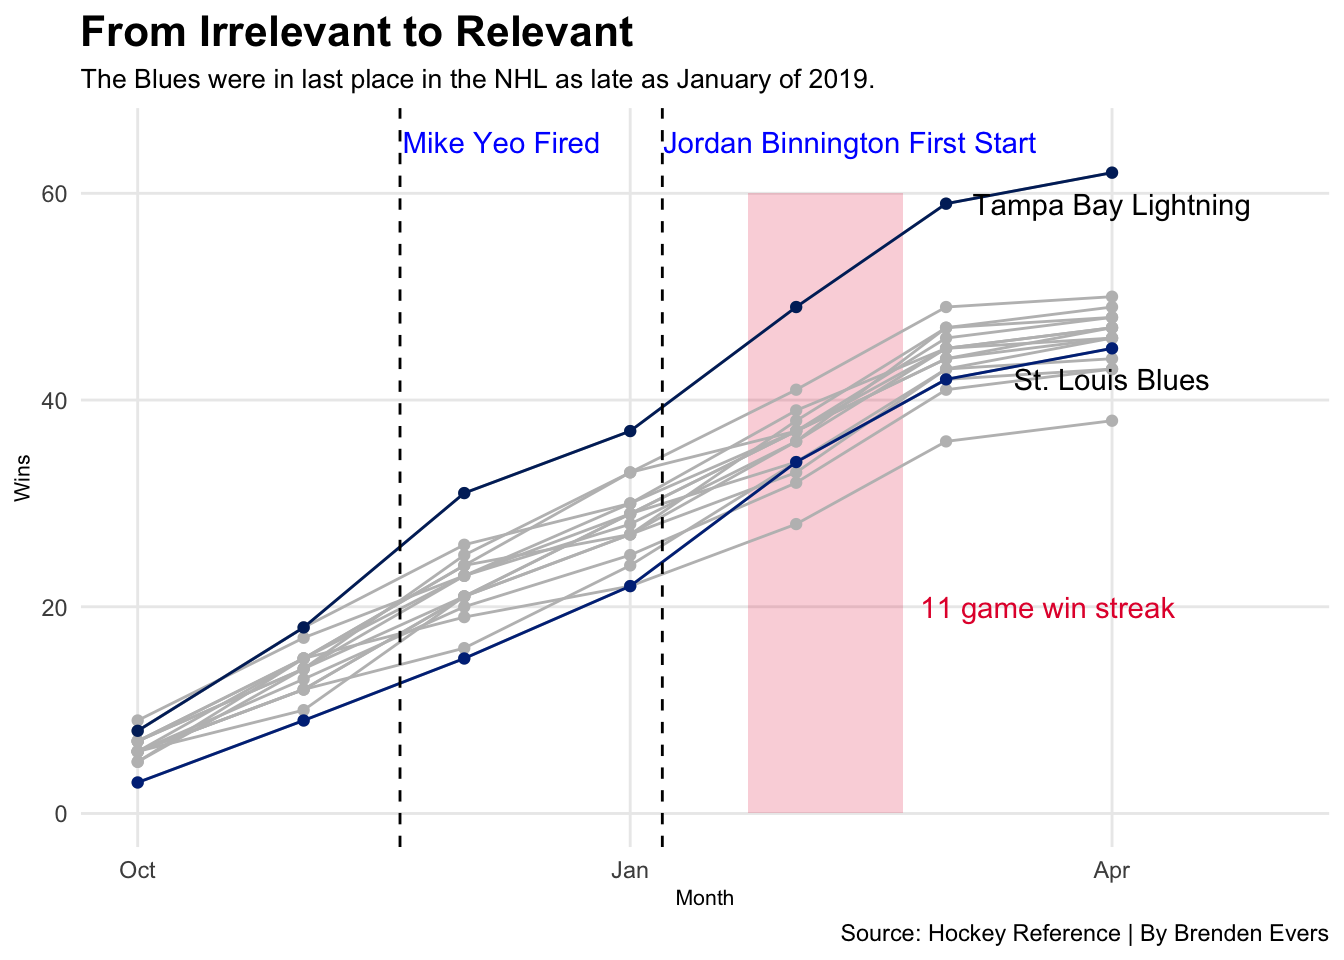
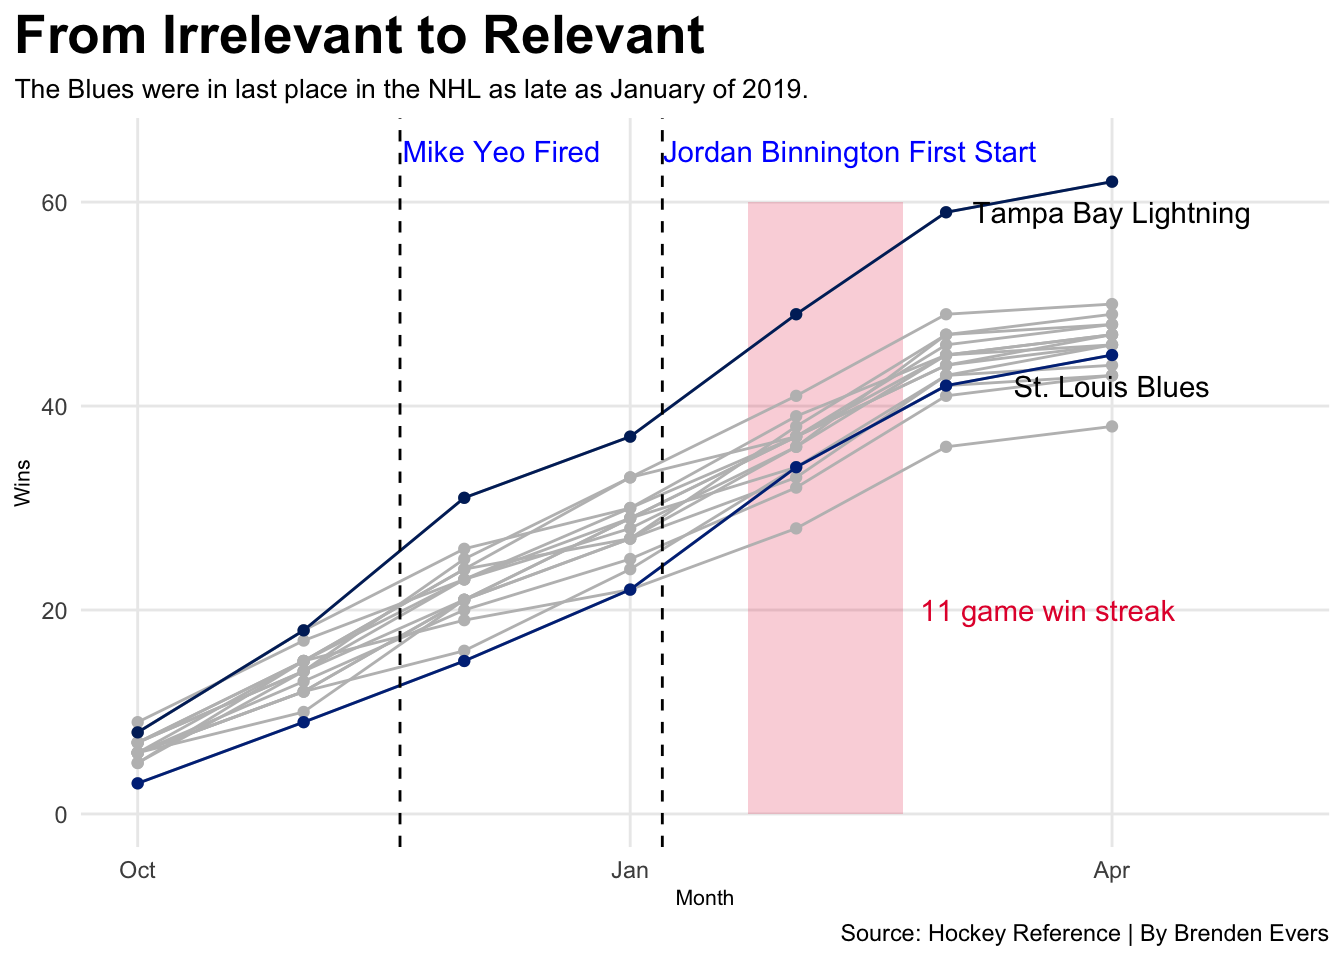
Added more content

Changed region(s): [[0.0, 0.0, 0.9688, 0.8125], [0.6875, 0.625, 0.9688, 0.6562], [0.0, 0.4688, 0.0312, 0.5312]]

diff --git a/index.html b/index.html
@@ -156,7 +156,7 @@ ul.task-list li input[type="checkbox"] {
 <!-- margin-sidebar -->
     <div id="quarto-margin-sidebar" class="sidebar margin-sidebar">
         
-    <h5 class="quarto-listing-category-title">Categories</h5><div class="quarto-listing-category category-default"><div class="category" data-category="">All <span class="quarto-category-count">(4)</span></div><div class="category" data-category="code">code <span class="quarto-category-count">(1)</span></div><div class="category" data-category="data">data <span class="quarto-category-count">(1)</span></div><div class="category" data-category="sports">sports <span class="quarto-category-count">(1)</span></div></div></div>
+    <h5 class="quarto-listing-category-title">Categories</h5><div class="quarto-listing-category category-default"><div class="category" data-category="">All <span class="quarto-category-count">(5)</span></div><div class="category" data-category="code">code <span class="quarto-category-count">(1)</span></div><div class="category" data-category="data">data <span class="quarto-category-count">(1)</span></div><div class="category" data-category="sports">sports <span class="quarto-category-count">(1)</span></div></div></div>
 <!-- main -->
 <main class="content quarto-banner-title-block column-page-left" id="quarto-document-content">
 
@@ -171,7 +171,7 @@ ul.task-list li input[type="checkbox"] {
 <div class="list quarto-listing-default">
 <div class="quarto-post image-right" data-index="0" data-listing-file-modified-sort="1699458168212" data-listing-reading-time-sort="0">
 <div class="thumbnail">
-<p><a href="./posts/the-chicago-cubs-have-problems-developing-pitching/index.html"> <div class="listing-item-img-placeholder card-img-top" >&nbsp;</div> </a></p>
+<p><a href="./posts/the-chicago-cubs-have-problems-developing-pitching/index.html"> <!-- img(9CEB782EFEE6)[progressive=false, height=]:posts/the-chicago-cubs-have-problems-developing-pitching/index.html --> </a></p>
 </div>
 <div class="body">
 <a href="./posts/the-chicago-cubs-have-problems-developing-pitching/index.html">
@@ -181,7 +181,7 @@ ul.task-list li input[type="checkbox"] {
 
 </div>
 <div class="listing-description">
-
+<!-- desc(5A0113B34292)[max=175]:posts/the-chicago-cubs-have-problems-developing-pitching/index.html -->
 </div>
 </a>
 </div>
@@ -189,7 +189,7 @@ ul.task-list li input[type="checkbox"] {
 <a href="./posts/the-chicago-cubs-have-problems-developing-pitching/index.html"> </a>
 </div>
 </div>
-<div class="quarto-post image-right" data-index="1" data-categories="" data-listing-date-sort="1701324000000" data-listing-file-modified-sort="1701445224205" data-listing-date-modified-sort="NaN" data-listing-reading-time-sort="7">
+<div class="quarto-post image-right" data-index="1" data-categories="" data-listing-date-sort="1701324000000" data-listing-file-modified-sort="1701445772370" data-listing-date-modified-sort="NaN" data-listing-reading-time-sort="7">
 <div class="thumbnail">
 <p><a href="./posts/how-the-st-louis-blues-turned-their-season-around-in-2019/index.html"> <img src="./posts/how-the-st-louis-blues-turned-their-season-around-in-2019/image.png" class="thumbnail-image"> </a></p>
 </div>
@@ -207,7 +207,7 @@ The Improbable Turnaround of the 2019 St.&nbsp;Louis Blues
 </div>
 <a href="./posts/how-the-st-louis-blues-turned-their-season-around-in-2019/index.html">
 <div class="listing-description">
-On Jan.&nbsp;3, 2019 The St Louis Blues found themselves in last place in the NHL and were consistently losing games by a wide margin. Fans were beginning to check out. Tickets…
+<!-- desc(5A0113B34292)[max=175]:posts/how-the-st-louis-blues-turned-their-season-around-in-2019/index.html -->
 </div>
 </a>
 </div>
@@ -222,7 +222,40 @@ Brenden Evers
 </a>
 </div>
 </div>
-<div class="quarto-post image-right" data-index="2" data-categories="" data-listing-date-sort="1699596000000" data-listing-file-modified-sort="1701413809466" data-listing-date-modified-sort="NaN" data-listing-reading-time-sort="9">
+<div class="quarto-post image-right" data-index="2" data-categories="" data-listing-date-sort="1701324000000" data-listing-file-modified-sort="1701445773884" data-listing-date-modified-sort="NaN" data-listing-reading-time-sort="7">
+<div class="thumbnail">
+<p><a href="./posts/how-the-st-louis-blues-turned-their-season-around-in-2019/index.html"> <img src="./posts/how-the-st-louis-blues-turned-their-season-around-in-2019/image.png" class="thumbnail-image"> </a></p>
+</div>
+<div class="body">
+<a href="./posts/how-the-st-louis-blues-turned-their-season-around-in-2019/index.html">
+<h3 class="no-anchor listing-title">
+The Improbable Turnaround of the 2019 St.&nbsp;Louis Blues
+</h3>
+<div class="listing-subtitle">
+
+</div>
+</a>
+<div class="listing-categories">
+
+</div>
+<a href="./posts/how-the-st-louis-blues-turned-their-season-around-in-2019/index.html">
+<div class="listing-description">
+<!-- desc(5A0113B34292)[max=175]:posts/how-the-st-louis-blues-turned-their-season-around-in-2019/index.html -->
+</div>
+</a>
+</div>
+<div class="metadata">
+<a href="./posts/how-the-st-louis-blues-turned-their-season-around-in-2019/index.html">
+<div class="listing-date">
+Nov 30, 2023
+</div>
+<div class="listing-author">
+Brenden Evers
+</div>
+</a>
+</div>
+</div>
+<div class="quarto-post image-right" data-index="3" data-categories="" data-listing-date-sort="1699596000000" data-listing-file-modified-sort="1701413809466" data-listing-date-modified-sort="NaN" data-listing-reading-time-sort="9">
 <div class="thumbnail">
 <p><a href="./posts/the-chicago-cubs-have-pitching-problems-but-its-not-as-bad-as-it-seems/index.html"> <img src="./posts/the-chicago-cubs-have-pitching-problems-but-its-not-as-bad-as-it-seems/image.png" class="thumbnail-image"> </a></p>
 </div>
@@ -240,7 +273,7 @@ The Chicago Cubs have pitching problems, but it’s not as bad as it seems
 </div>
 <a href="./posts/the-chicago-cubs-have-pitching-problems-but-its-not-as-bad-as-it-seems/index.html">
 <div class="listing-description">
-Over the last three seasons, The Chicago Cubs have been in the upper half of Major League Baseball’s payroll. Yet, the team has seemed to struggle with pitching. Over the…
+<!-- desc(5A0113B34292)[max=175]:posts/the-chicago-cubs-have-pitching-problems-but-its-not-as-bad-as-it-seems/index.html -->
 </div>
 </a>
 </div>
@@ -255,7 +288,7 @@ Brenden Evers
 </a>
 </div>
 </div>
-<div class="quarto-post image-right" data-index="3" data-categories="sports,data,code" data-listing-date-sort="1698642000000" data-listing-file-modified-sort="1698678575744" data-listing-date-modified-sort="NaN" data-listing-reading-time-sort="1">
+<div class="quarto-post image-right" data-index="4" data-categories="sports,data,code" data-listing-date-sort="1698642000000" data-listing-file-modified-sort="1698678575744" data-listing-date-modified-sort="NaN" data-listing-reading-time-sort="1">
 <div class="thumbnail">
 <p><a href="./posts/introduction/index.html"> <img src="./posts/introduction/image.png" class="thumbnail-image"> </a></p>
 </div>
@@ -281,7 +314,7 @@ code
 </div>
 <a href="./posts/introduction/index.html">
 <div class="listing-description">
-Hi. My name is Brenden. I am taking SPMC 350
+<!-- desc(5A0113B34292)[max=175]:posts/introduction/index.html -->
 </div>
 </a>
 </div>

diff --git a/posts/how-the-st-louis-blues-turned-their-season-around-in-2019/index.html b/posts/how-the-st-louis-blues-turned-their-season-around-in-2019/index.html
@@ -176,7 +176,7 @@ pre > code.sourceCode > span > a:first-child::before { text-decoration: underlin
 
 
 
-<p>On Jan.&nbsp;3, 2019 The St Louis Blues found themselves in last place in the NHL and were consistently losing games by a wide margin. Fans were beginning to check out. Tickets for late season home games at the time could be found for 15 dollars or less on the resale market. However, the team ended up pulling off one of the most incredible turnarounds in sports history. So, what happened? On Nov 9, The Blues fired their head coach, Mike Yeo, after a 2-0 loss to the LA Kings who at the time were the only team with fewer points than them. The team promoted assistant coach Craig Berube to interim head coach. By early January the Blues had fallen to last place in the league having played almost 50% of their schedule. This is when St.&nbsp;Louis began to climb out of the league’s basement. Lucky enough for the Blues there many of the teams ahead of them in the Western Conference were struggling. By the all-star break they were only 3 points out of a wild card spot. From Jan.&nbsp;20, through Feb.&nbsp;11, St.&nbsp;Louis won 11 games in a row.</p>
+<p>On Jan.&nbsp;3, 2019 The St Louis Blues found themselves in last place in the NHL and were consistently losing games by a wide margin. Fans were beginning to check out. Tickets for late season home games at the time could be found for 15 dollars or less on the resale market. However, the team ended up pulling off one of the most incredible turnarounds in sports history. So, what happened? On Nov 9, The Blues fired their head coach, Mike Yeo, after a 2-0 loss to the LA Kings who at the time were the only team with fewer points than them. The team promoted assistant coach Craig Berube to interim head coach. By early January the Blues had fallen to last place in the league having played almost 50% of their schedule. This is when St.&nbsp;Louis began to climb out of the league’s basement. Lucky enough for the Blues, many of the teams ahead of them in the Western Conference were struggling. By the all-star break they were only 3 points out of a wild card spot. From Jan.&nbsp;20, through Feb.&nbsp;11, St.&nbsp;Louis won 11 games in a row and the playoffs were looking like a possibility again.</p>
 <div class="cell">
 <details>
 <summary>Code</summary>
@@ -270,17 +270,18 @@ pre > code.sourceCode > span > a:first-child::before { text-decoration: underlin
 <span id="cb1-88"><a href="#cb1-88" aria-hidden="true" tabindex="-1"></a>  <span class="fu">labs</span>(<span class="at">title=</span><span class="st">"From Irrelevant to Relevant"</span>, <span class="at">subtitle=</span><span class="st">"The Blues were in last place in the NHL as late as January of 2019. "</span>, <span class="at">x=</span><span class="st">"Month"</span>, <span class="at">y=</span><span class="st">"Wins"</span>, <span class="at">caption =</span> <span class="st">"Source: Hockey Reference | By Brenden Evers"</span>) <span class="sc">+</span> </span>
 <span id="cb1-89"><a href="#cb1-89" aria-hidden="true" tabindex="-1"></a>  <span class="fu">theme_minimal</span>() <span class="sc">+</span> </span>
 <span id="cb1-90"><a href="#cb1-90" aria-hidden="true" tabindex="-1"></a>  <span class="fu">theme</span>(</span>
-<span id="cb1-91"><a href="#cb1-91" aria-hidden="true" tabindex="-1"></a>    <span class="at">plot.title =</span> <span class="fu">element_text</span>(<span class="at">size =</span> <span class="dv">16</span>, <span class="at">face =</span> <span class="st">"bold"</span>),</span>
-<span id="cb1-92"><a href="#cb1-92" aria-hidden="true" tabindex="-1"></a>    <span class="at">axis.title =</span> <span class="fu">element_text</span>(<span class="at">size =</span> <span class="dv">8</span>), </span>
-<span id="cb1-93"><a href="#cb1-93" aria-hidden="true" tabindex="-1"></a>    <span class="at">plot.subtitle =</span> <span class="fu">element_text</span>(<span class="at">size=</span><span class="dv">10</span>), </span>
-<span id="cb1-94"><a href="#cb1-94" aria-hidden="true" tabindex="-1"></a>    <span class="at">panel.grid.minor =</span> <span class="fu">element_blank</span>()</span>
-<span id="cb1-95"><a href="#cb1-95" aria-hidden="true" tabindex="-1"></a>    ) </span></code><button title="Copy to Clipboard" class="code-copy-button"><i class="bi"></i></button></pre></div>
+<span id="cb1-91"><a href="#cb1-91" aria-hidden="true" tabindex="-1"></a>    <span class="at">plot.title =</span> <span class="fu">element_text</span>(<span class="at">size =</span> <span class="dv">20</span>, <span class="at">face =</span> <span class="st">"bold"</span>), </span>
+<span id="cb1-92"><a href="#cb1-92" aria-hidden="true" tabindex="-1"></a>    <span class="at">plot.subtitle =</span> <span class="fu">element_text</span>(<span class="at">size =</span> <span class="dv">10</span>),</span>
+<span id="cb1-93"><a href="#cb1-93" aria-hidden="true" tabindex="-1"></a>    <span class="at">axis.title =</span> <span class="fu">element_text</span>(<span class="at">size =</span> <span class="dv">8</span>), </span>
+<span id="cb1-94"><a href="#cb1-94" aria-hidden="true" tabindex="-1"></a>    <span class="at">panel.grid.minor =</span> <span class="fu">element_blank</span>(),</span>
+<span id="cb1-95"><a href="#cb1-95" aria-hidden="true" tabindex="-1"></a>    <span class="at">plot.title.position =</span> <span class="st">"plot"</span></span>
+<span id="cb1-96"><a href="#cb1-96" aria-hidden="true" tabindex="-1"></a>    ) </span></code><button title="Copy to Clipboard" class="code-copy-button"><i class="bi"></i></button></pre></div>
 </details>
 <div class="cell-output-display">
 <p><img src="index_files/figure-html/unnamed-chunk-1-1.png" class="img-fluid" width="672"></p>
 </div>
 </div>
-<p>Much of the credit for the Blues climb back to relevance can be attributed to the success of rookie goaltender Jordan Binnington. In just over 30 regular season starts Binnington posted strong numbers including five shutouts. Binnington also finished the season leading atop the goals against leader board.</p>
+<p>Much of the credit for the Blues climb back to relevance can be attributed to the success of rookie goaltender Jordan Binnington. In just over 30 regular season starts Binnington posted strong numbers including five shutouts. Binnington also finished the season leading atop the goals against leader board. The five shutouts are pretty impressive considering Sergei Bobrovsky and Marc-André Fleury both had more twice as many starts as Binnington.</p>
 <div class="cell">
 <details>
 <summary>Code</summary>
